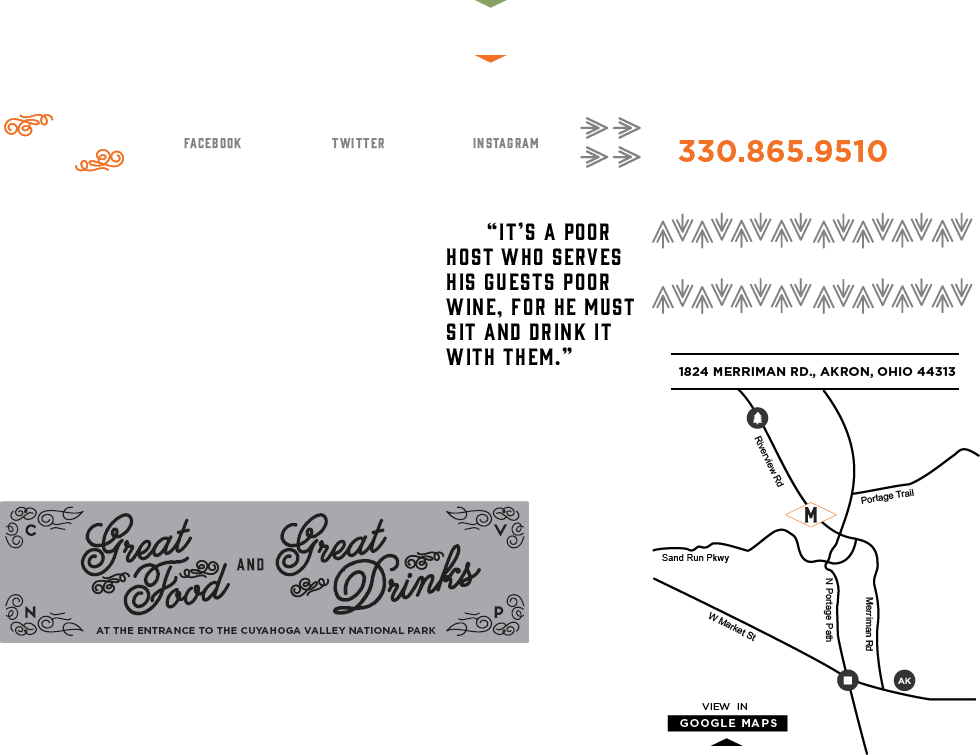
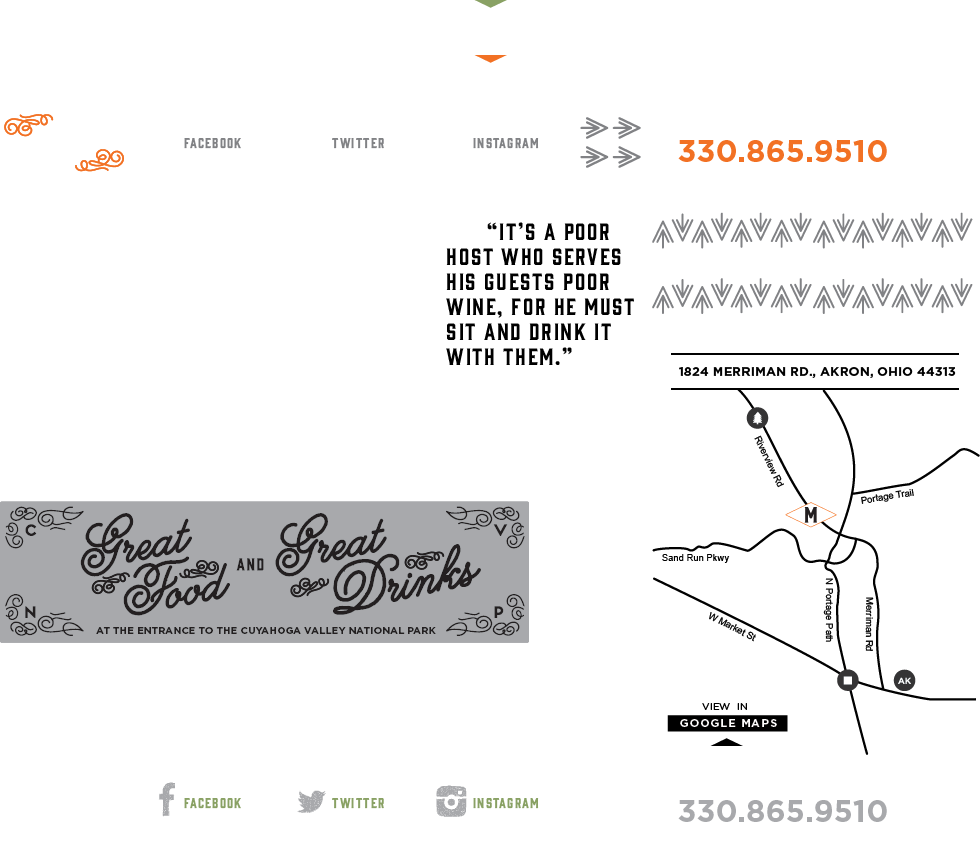
added social media bar

diff --git a/wp-content/themes/merchanttavern/css/main.css b/wp-content/themes/merchanttavern/css/main.css
@@ -542,8 +542,12 @@ a {
   width: 900px;
   height: 430px;
   margin: 0 auto;
-  text-align: center;
-  outline: 1px solid red; }
+  text-align: center; }
+
+.l-horizontal {
+  list-style: none; }
+  .l-horizontal li {
+    float: left; }
 
 /*==============================/
 /  modules                      /
@@ -568,7 +572,8 @@ a {
     line-height: 1.4;
     font-weight: 600;
     text-align: center;
-    text-transform: uppercase; }
+    text-transform: uppercase;
+    border: 1px solid #818285; }
 
 .orange {
   background-position: center -55px; }
@@ -602,6 +607,76 @@ a {
 
 .main-logo {
   margin: 51px 0 0; }
+
+.social-contact {
+  position: absolute;
+  top: 348px;
+  width: 100%;
+  height: 80px; }
+  .social-contact ul {
+    height: 75px;
+    padding: 0;
+    margin: 2px 0 3px 0; }
+  .social-contact li {
+    display: block;
+    height: 75px;
+    border-left: 2px solid #818285; }
+  .social-contact .social-icon {
+    border-left: none; }
+
+.social-icon {
+  width: 136px;
+  background: url(../img/s.png) no-repeat 0 -106px; }
+  .social-icon:before {
+    display: block;
+    width: 2px;
+    height: 75px;
+    border-right: 2px solid #818285; }
+
+.facebook {
+  display: block;
+  height: 75px;
+  width: 130px;
+  background: url(../img/s.png) no-repeat -134px -106px; }
+  .facebook:hover {
+    background-position: -134px -766px; }
+
+.twitter {
+  display: block;
+  height: 75px;
+  width: 138px;
+  background: url(../img/s.png) no-repeat -272px -106px; }
+  .twitter:hover {
+    background-position: -272px -766px; }
+
+.instagram {
+  display: block;
+  height: 75px;
+  width: 150px;
+  background: url(../img/s.png) no-repeat -412px -106px; }
+  .instagram:hover {
+    background-position: -412px -766px; }
+
+.social-arrows {
+  width: 96px;
+  background: url(../img/s.png) no-repeat -563px -106px; }
+
+.phone {
+  display: block;
+  height: 75px;
+  width: 238px;
+  background: url(../img/s.png) no-repeat -659px -106px; }
+  .phone:hover {
+    background-position: -659px -766px; }
+
+.hor-divider {
+  display: block;
+  width: 100%;
+  height: 4px;
+  clear: both;
+  background: #818285;
+  border-top: 1px solid #282929;
+  border-bottom: 1px solid #282929; }
 
 /*==============================/
 /  utils                        /

diff --git a/wp-content/themes/merchanttavern/sass/module/_social-contact.scss b/wp-content/themes/merchanttavern/sass/module/_social-contact.scss
@@ -1,0 +1,86 @@
+// social-contact 
+
+.social-contact {
+	position: absolute;
+	top: 348px;
+	width: 100%;
+	height: 80px;
+	
+	ul {
+		height: 75px;
+		padding: 0;
+		margin: 2px 0 3px 0;
+	}
+
+	li {
+		display: block;
+		height: 75px;
+		border-left: 2px solid $color-main-gray;
+	}
+
+	.social-icon {
+		border-left: none;
+	}
+}
+
+.social-icon {
+	width: 136px;
+	background: url(../img/s.png) no-repeat 0 -106px;
+
+	&:before {
+		display: block;
+		width: 2px;
+		height: 75px;
+		border-right: 2px solid $color-main-gray;
+	}
+}
+
+.facebook {
+	display: block;
+	height: 75px;
+	width: 130px;
+	background: url(../img/s.png) no-repeat -134px -106px;
+
+	&:hover {
+		background-position: -134px -766px;
+	}
+}
+
+.twitter {
+	display: block;
+	height: 75px;
+	width: 138px;
+	background: url(../img/s.png) no-repeat -272px -106px;
+
+	&:hover {
+		background-position: -272px -766px;
+	}
+
+}
+
+.instagram {
+	display: block;
+	height: 75px;
+	width: 150px;
+	background: url(../img/s.png) no-repeat -412px -106px;
+
+	&:hover {
+		background-position: -412px -766px;
+	}
+}
+
+.social-arrows {
+	width: 96px;
+	background: url(../img/s.png) no-repeat -563px -106px;
+}
+
+.phone {
+	display: block;
+	height: 75px;
+	width: 238px;
+	background: url(../img/s.png) no-repeat -659px -106px;
+
+	&:hover {
+		background-position: -659px -766px;
+	}
+}

diff --git a/wp-content/themes/merchanttavern/sass/module/_cta-btn.scss b/wp-content/themes/merchanttavern/sass/module/_cta-btn.scss
@@ -21,6 +21,7 @@
 		font-weight: 600;
 		text-align: center;
 		text-transform: uppercase;
+		border: 1px solid $color-main-gray;
 	}
 }
 
@@ -57,7 +58,7 @@
 	top: 40px;
 	padding: 0;
 	margin: 0;
-	color: rgb(129, 130, 133);
+	color: $color-main-gray;
 	font-size: 10px;
 	line-height: 1;
 	text-align: right;

diff --git a/wp-content/themes/merchanttavern/sass/module/_site-wide.scss b/wp-content/themes/merchanttavern/sass/module/_site-wide.scss
@@ -1,0 +1,12 @@
+// helpers and widgets
+
+// gray with dark borders divider
+.hor-divider {
+	display: block;
+	width: 100%;
+	height: 4px;
+	clear: both;
+	background: $color-main-gray;
+	border-top: 1px solid $color-alt-black;
+	border-bottom: 1px solid $color-alt-black;
+}

diff --git a/wp-content/themes/merchanttavern/sass/base/_base.scss b/wp-content/themes/merchanttavern/sass/base/_base.scss
@@ -4,6 +4,10 @@
 $site-width: 1000px;
 $header-width: 900px;
 
+// colors
+$color-main-gray: rgb(129, 130, 133);
+$color-alt-black: rgb(40,41, 41);
+
 // fonts 
 $font-family-main: "ff-basic-gothic-web-pro", "Franklin Gothic", "ITC Franklin Gothic", Arial, sans-serif;
 

diff --git a/wp-content/themes/merchanttavern/sass/main.scss b/wp-content/themes/merchanttavern/sass/main.scss
@@ -30,6 +30,10 @@
 
 @import "module/cta-btn";
 @import "module/main-logo";
+@import "module/social-contact";
+
+
+@import "module/site-wide";
 
 /*==============================/
 /  utils                        /

diff --git a/wp-content/themes/merchanttavern/sass/layout/_layout.scss b/wp-content/themes/merchanttavern/sass/layout/_layout.scss
@@ -11,5 +11,12 @@
 	height: 430px;
 	margin: 0 auto;
 	text-align: center;
-	outline: 1px solid red;
+}
+
+.l-horizontal {
+	list-style: none;
+
+	li {
+		float: left;
+	}
 }

diff --git a/wp-content/themes/merchanttavern/header.php b/wp-content/themes/merchanttavern/header.php
@@ -31,14 +31,16 @@
         <p>Click to download the latest PDF</p>
     </div>
     <img src="<?php bloginfo('template_url'); ?>/img/logo.png" alt="The Merchant Tavern" class="main-logo">
-    <div class="social-contant">
+    <div class="social-contact clearfix">
+        <div class="hor-divider"> </div>
         <ul class="l-horizontal">
             <li class="social-icon"></li>
             <li><a href="https://www.facebook.com/merchanttavern" class="facebook ir">Facebook</a></li>
             <li><a href="https://twitter.com/merchanttavern" class="twitter ir">Twitter</a></li>
-            <li><a href="http://instagram.com/merchanttavern" class="instagram ir">Instagram<a></li>
+            <li><a href="http://instagram.com/merchanttavern" class="instagram ir">Instagram</a></li>
             <li class="social-arrows"></li>
             <li><a href="tel:3308659510" class="phone ir">330.865.9510</a></li>
         </ul>
+        <div class="hor-divider"> </div>
     </div>
 </header>
